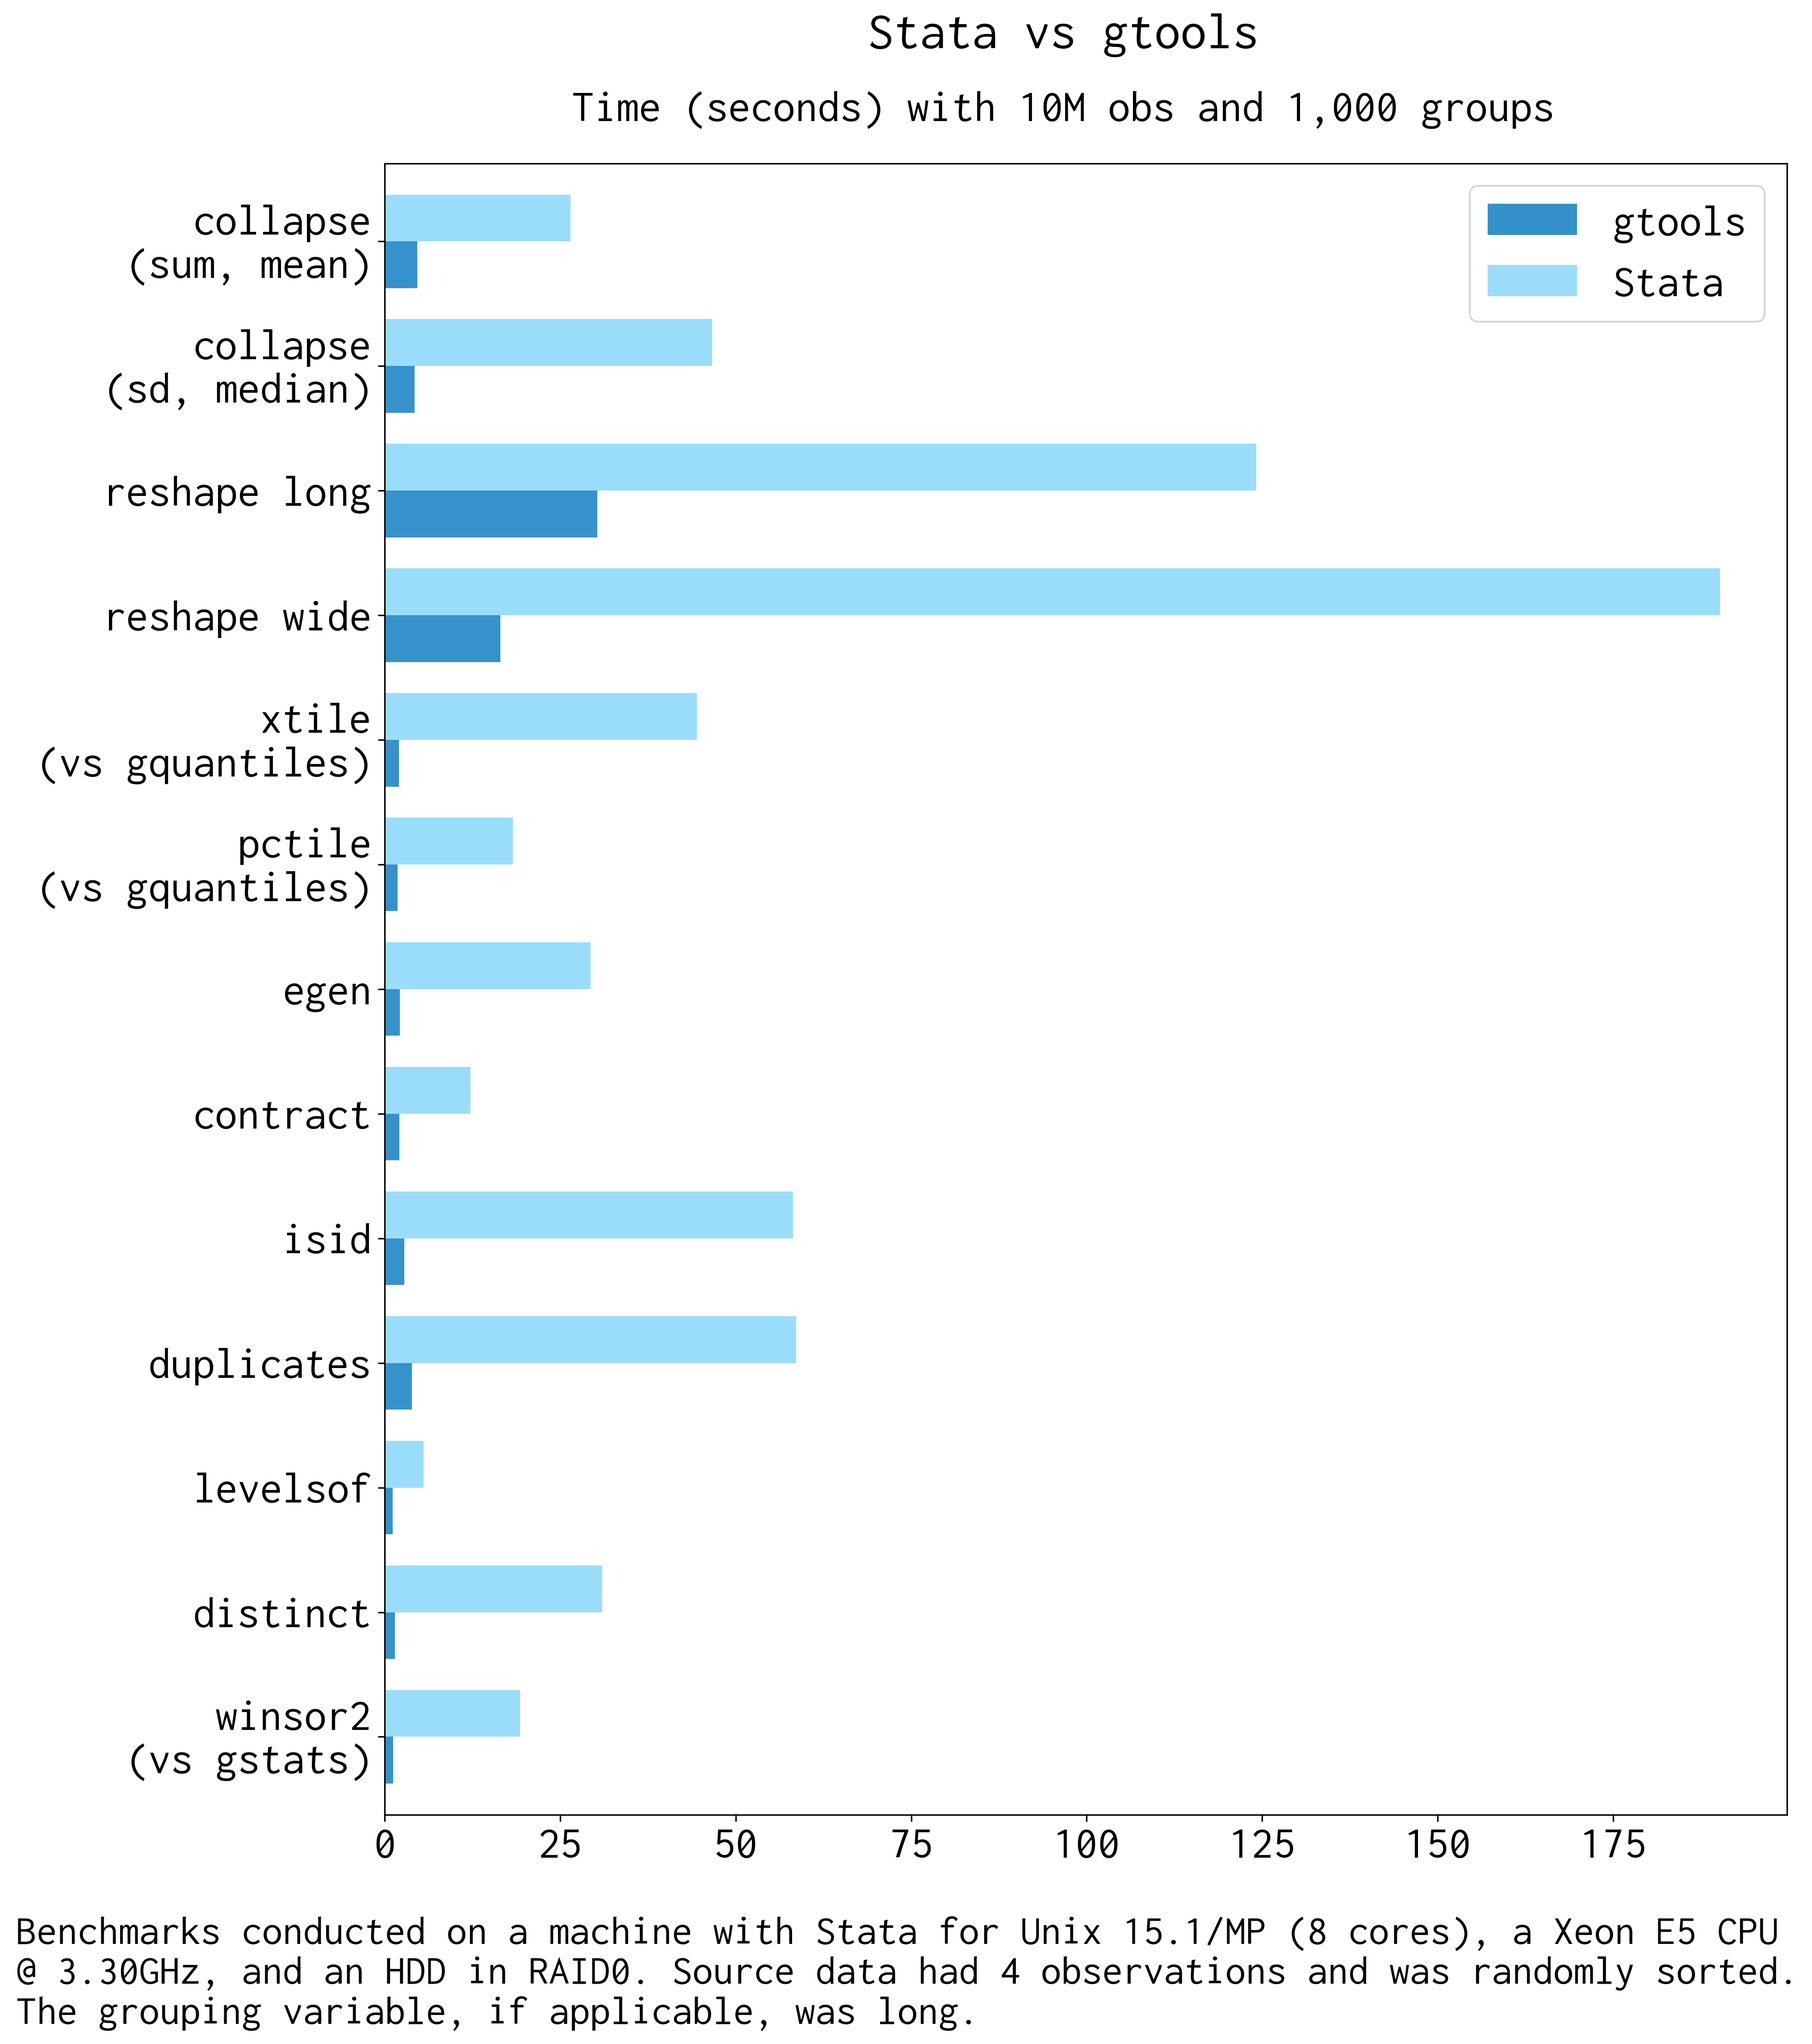
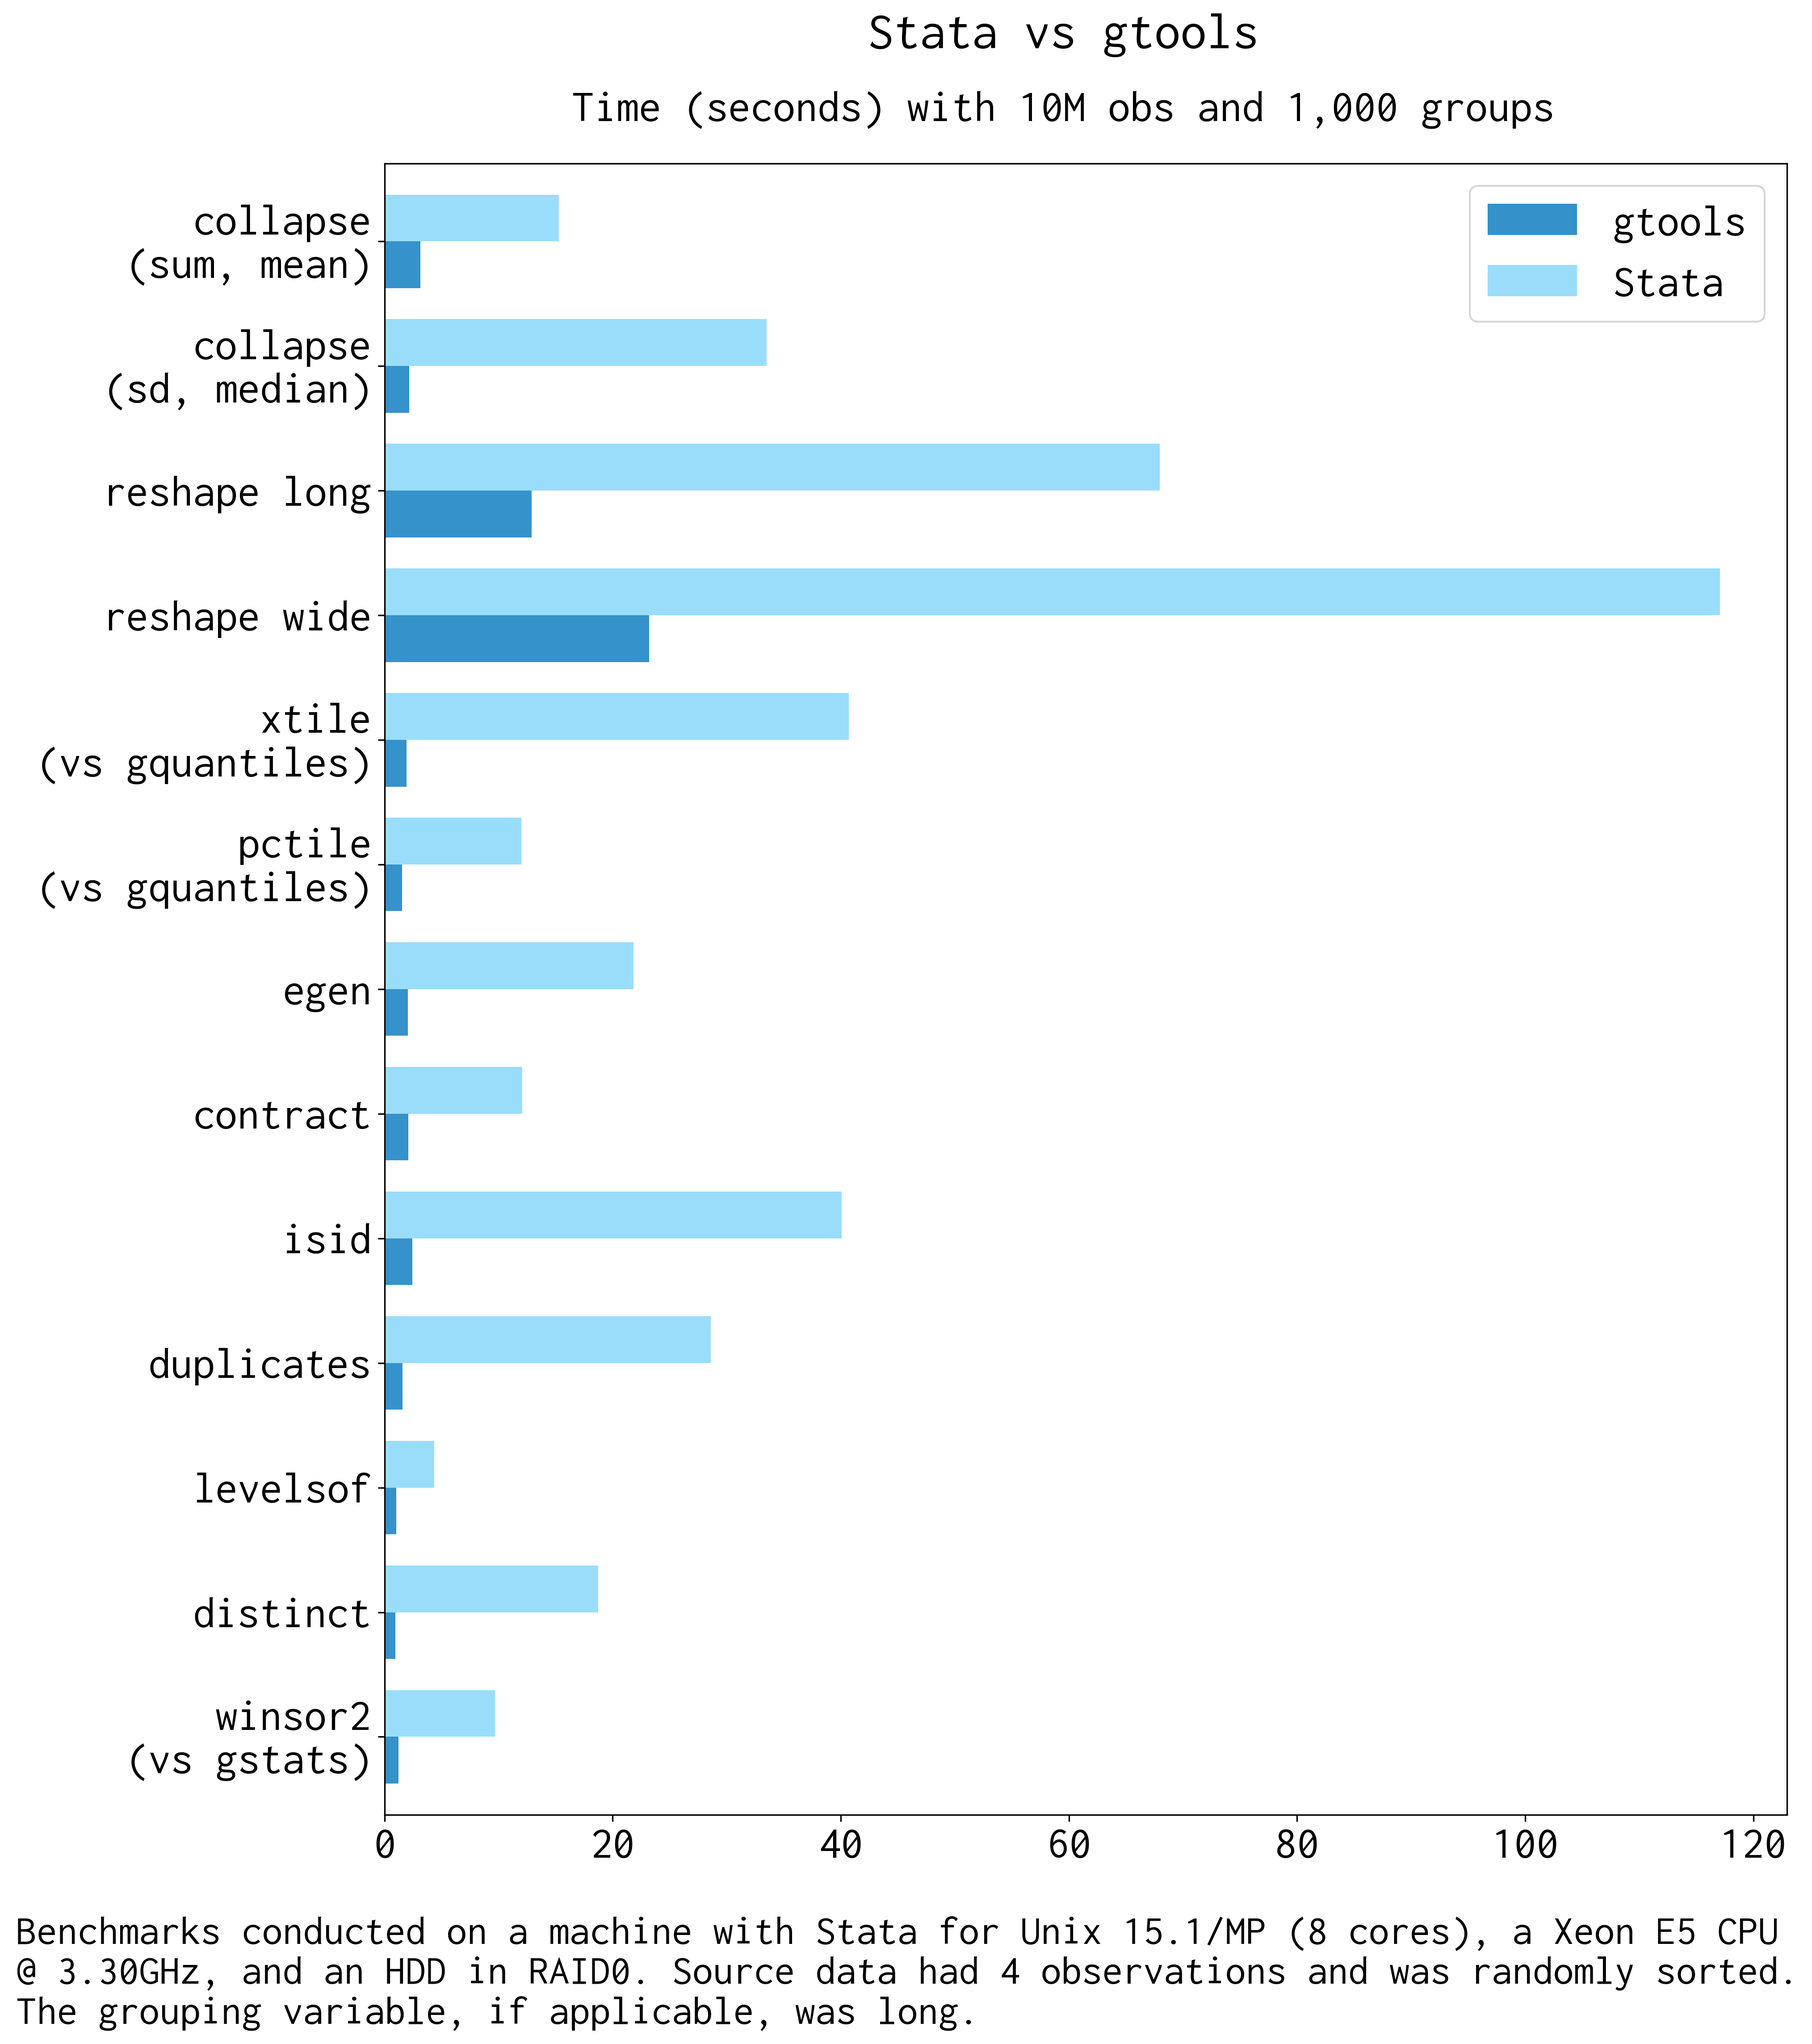
gtools-1.3.2 (2019-02-14); debugging #40

diff --git a/docs/benchmarks/quick.py b/docs/benchmarks/quick.py
@@ -52,19 +52,19 @@ df = pd.DataFrame(
 
 df = pd.DataFrame(
     [
-        ['collapse\n(sum, mean)',     26.45,  4.65],
-        ['collapse\n(sd, median)',    46.64,  4.29],
-        ['reshape long',              124.15, 30.32],
-        ['reshape wide',              190.20, 16.47],
-        ['xtile\n(vs gquantiles)',    44.50,  2.06],
-        ['pctile\n(vs gquantiles)',   18.28,  1.87],
-        ['egen',                      29.35,  2.16],
-        ['contract',                  12.20,  2.08],
-        ['isid',                      58.17,  2.83],
-        ['duplicates',                58.59,  3.87],
-        ['levelsof',                  5.57,   1.17],
-        ['distinct',                  30.99,  1.48],
-        ['winsor2\n(vs gstats)',      19.31,  1.24],
+        ['collapse\n(sum, mean)',      15.29,  3.15],
+        ['collapse\n(sd, median)',     33.49,  2.17],
+        ['reshape long',               67.95, 12.89],
+        ['reshape wide',              117.08, 23.21],
+        ['xtile\n(vs gquantiles)',     40.69,  1.92],
+        ['pctile\n(vs gquantiles)',    12.00,  1.54],
+        ['egen',                       21.82,  2.06],
+        ['contract',                   12.07,  2.07],
+        ['isid',                       40.07,  2.44],
+        ['duplicates',                 28.61,  1.58],
+        ['levelsof',                    4.37,  1.01],
+        ['distinct',                   18.74,  0.93],
+        ['winsor2\n(vs gstats)',        9.67,  1.22],
     ],
     columns = [' ', 'Stata', 'gtools']
 )

diff --git a/src/plugin/gtools.c b/src/plugin/gtools.c
@@ -2,16 +2,16 @@
  * Program: gtools.c
  * Author:  Mauricio Caceres Bravo <mauricio.caceres.bravo@gmail.com>
  * Created: Sat May 13 18:12:26 EDT 2017
- * Updated: Mon Feb 11 22:03:45 EST 2019
+ * Updated: Thu Feb 14 19:14:54 EST 2019
  * Purpose: Stata plugin for faster group operations
  * Note:    See stata.com/plugins for more on Stata plugins
- * Version: 1.3.1
+ * Version: 1.3.2
  *********************************************************************/
 
 /**
  * @file gtools.c
  * @author Mauricio Caceres Bravo
- * @date 11 Feb 2019
+ * @date 14 Feb 2019
  * @brief Stata plugin
  *
  * This file should only ever be called from gtools.ado

diff --git a/docs/usage/greshape.md b/docs/usage/greshape.md
@@ -159,7 +159,7 @@ Options
 
 **Gather and Spread**
 
-- `i(varlist)`        check varlist are the ID variables. Throws an error otherwise.
+- `by(varlist)`       check varlist are the ID variables. Throws an error otherwise.
 - `xi(drop)`          Drop variables not in the reshape or in `by()`. That is,
                       if `by()` is specified then drop variables that have not
                       been explicitly named.
@@ -207,17 +207,19 @@ and `greshape gather`, both of which are marginally faster and in
 the style of the equivalent R commands from `tidyr`.
 
 It is well-known that `reshape` is a slow command, and there are several
-alternatives that I have encountered to speed up `reshape`, incuding:
-`fastreshape`, `sreshape`, and various custom solutions (e.g. here).  In my
-benchmarks their performance improvements are either minor or not robust
-to complex data configurations (e.g. many unsorted groups, many extra
-variables, mixed types, etc.).
+alternatives that I have encountered to speed up `reshape`, including:
+`fastreshape`, `parallel`, `sreshape`, and various custom solutions
+(e.g. [here](http://www.nber.org/stata/efficient/reshape.html)). While
+these alternatives are slower than `greshape`, the speed gains are not
+uniform.
 
-The only solution that consistently outperforms `reshape` is `parallel`,
-which improves performance by 1.5x to 3x, depending on the data
-configuration. `greshape` typically speeds up `reshape` anywhere from
-5x to 20x, so it is much faster than even the next-fastest known
-improvement to `reshape`.
+If `j()` is numeric, the data is already sorted by `i()`, and there are
+not too may variables to reshape, then `fastreshape` comes closest to
+achieving comparable speeds to `greshape`. Under most circumstances,
+however, `greshape` is typically 20-60% faster than `fastreshape` on
+sorted data, and up to 90% faster on unsorted data or if `j()` has
+string values. In other words, `greshape`'s speed gains are very robust,
+while other solutions' are not.
 
 !!! note "Note"
     `greshape` relies on temporary files written to your disk storage to

diff --git a/docs/index.md b/docs/index.md
@@ -5,10 +5,10 @@ to provide a massive speed improvements to common Stata commands,
 including: collapse, reshape, winsor, pctile, xtile, contract, egen,
 isid, levelsof, duplicates, and unique/distinct.
 
-![Stable Version](https://img.shields.io/badge/stable-v1.3.1%20%7C%20linux--64%20%7C%20osx--64%20%7C%20win--64-blue.svg?longCache=true&style=flat-square)
+![Stable Version](https://img.shields.io/badge/stable-v1.3.2%20%7C%20linux--64%20%7C%20osx--64%20%7C%20win--64-blue.svg?longCache=true&style=flat-square)
 
 <!--
-`version 1.3.1 11Feb2019`
+`version 1.3.2 14Feb2019`
 Builds: Linux, OSX [![Travis Build Status](https://travis-ci.org/mcaceresb/stata-gtools.svg?branch=master)](https://travis-ci.org/mcaceresb/stata-gtools),
 Windows (Cygwin) [![Appveyor Build status](https://ci.appveyor.com/api/projects/status/2bh1q9bulx3pl81p/branch/master?svg=true)](https://ci.appveyor.com/project/mcaceresb/stata-gtools)
 -->

diff --git a/README.md b/README.md
@@ -13,7 +13,7 @@ to provide a massive speed improvements to common Stata commands,
 including: collapse, reshape, winsor, pctile, xtile, contract, egen,
 isid, levelsof, duplicates, and unique/distinct.
 
-![Dev Version](https://img.shields.io/badge/beta-v1.3.1-blue.svg?longCache=true&style=flat-square)
+![Dev Version](https://img.shields.io/badge/beta-v1.3.2-blue.svg?longCache=true&style=flat-square)
 ![Supported Platforms](https://img.shields.io/badge/platforms-linux--64%20%7C%20osx--64%20%7C%20win--64-blue.svg?longCache=true&style=flat-square)
 [![Travis Build Status](https://img.shields.io/travis/mcaceresb/stata-gtools/develop.svg?longCache=true&style=flat-square&label=linux)](https://travis-ci.org/mcaceresb/stata-gtools)
 [![Travis Build Status](https://img.shields.io/travis/mcaceresb/stata-gtools/develop.svg?longCache=true&style=flat-square&label=osx)](https://travis-ci.org/mcaceresb/stata-gtools)

diff --git a/changelog.md b/changelog.md
@@ -1,6 +1,12 @@
 Change Log
 ==========
 
+## gtools-1.3.2 (2019-02-14)
+
+### Testing
+
+- Hopefully fixes #40; might be related to #53
+
 ## gtools-1.3.1 (2019-02-11)
 
 ### Enhancements
